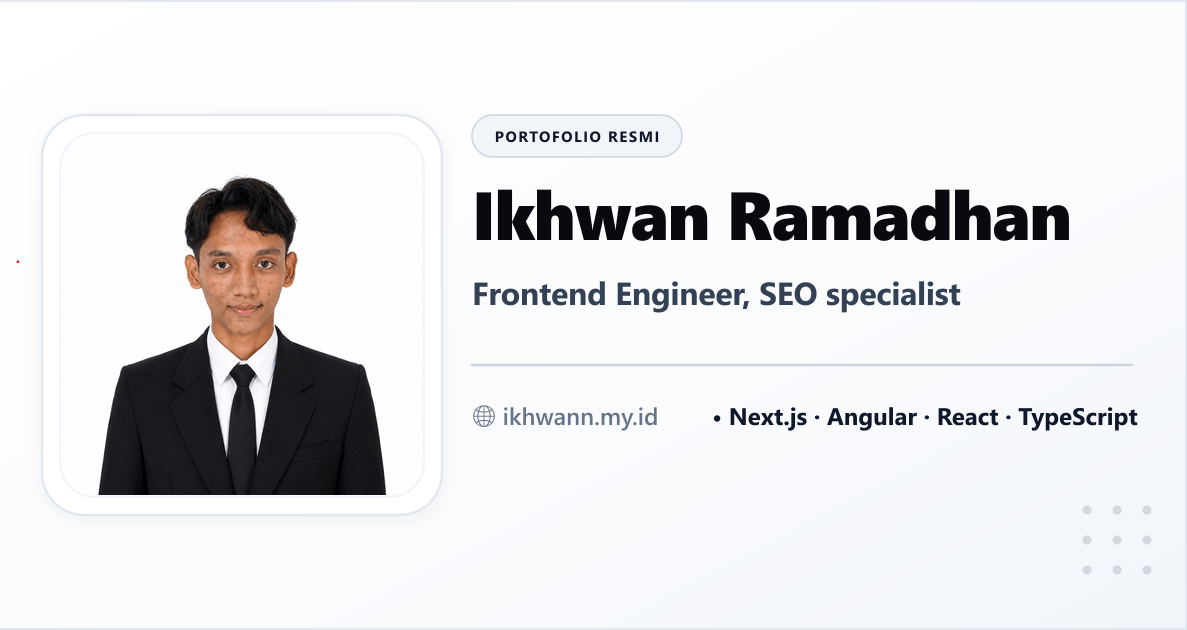
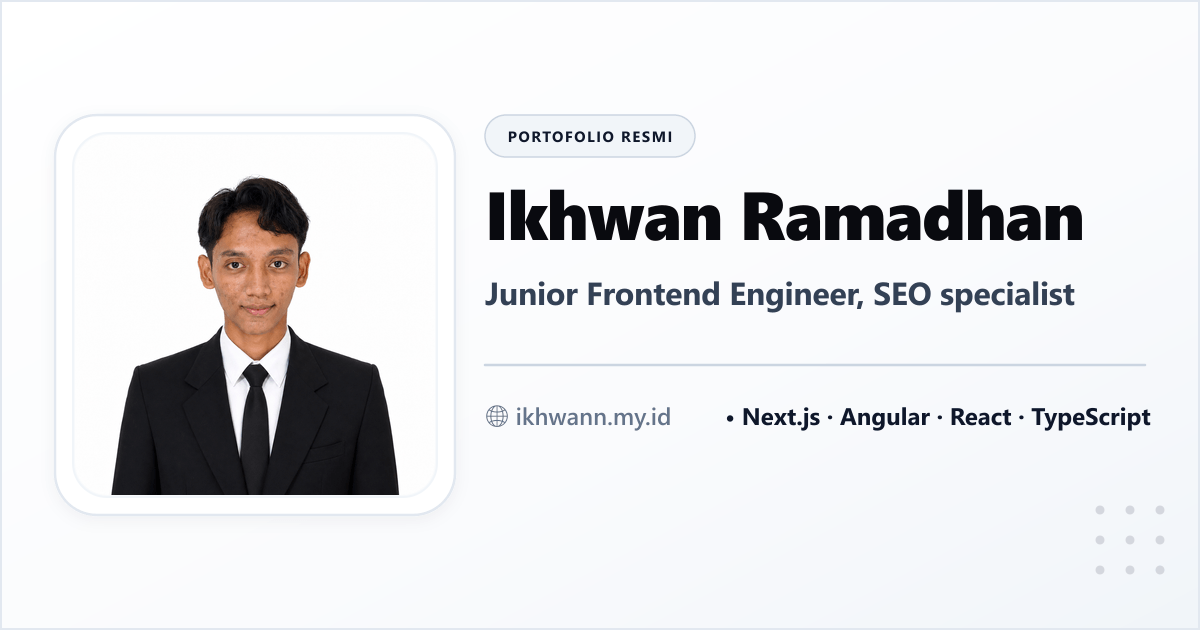
fix: hapus bug garis hitam OG, update og image junior frontend engineer

diff --git a/src/components/open-graph-image.tsx b/src/components/open-graph-image.tsx
@@ -26,17 +26,6 @@ export default async function OpenGraphImage() {
                     border: '1px solid #e2e8f0',
                 }}
             >
-                {/* Aksen Bar Kiri */}
-                <div
-                    style={{
-                        position: 'absolute',
-                        left: 0,
-                        top: 0,
-                        width: '12px',
-                        height: '100%',
-                        backgroundColor: '#0f172a',
-                    }}
-                />
 
                 {/* Kiri: Foto Profil Besar (Aspect Ratio Terkunci, Tidak Gepeng) */}
                 <div
